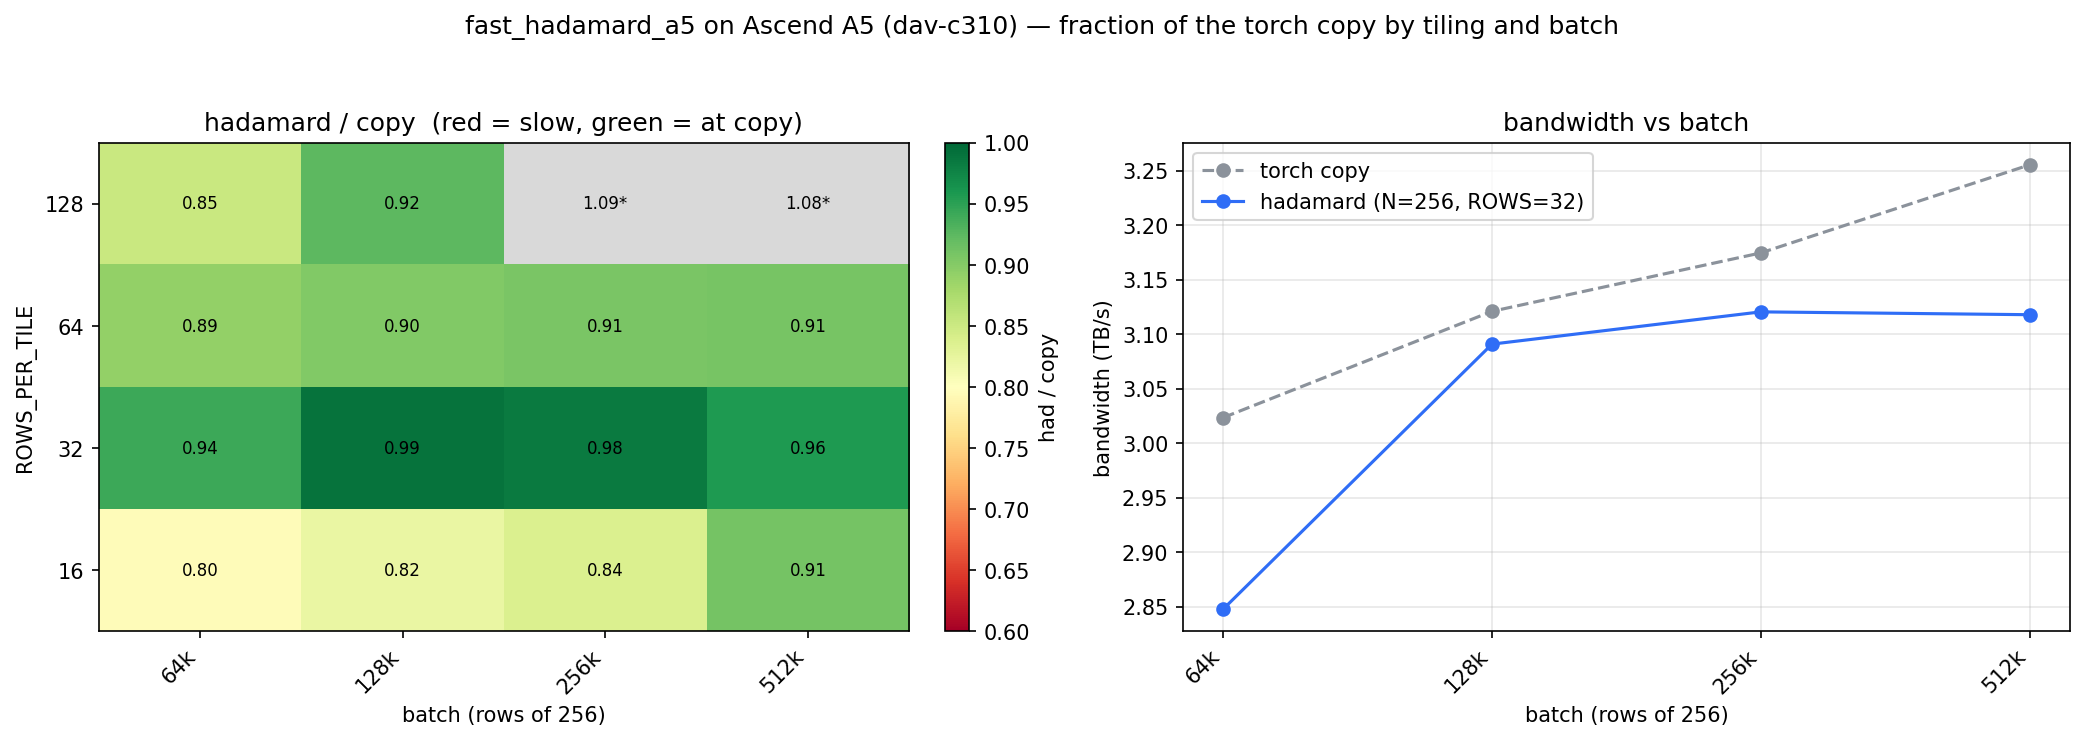
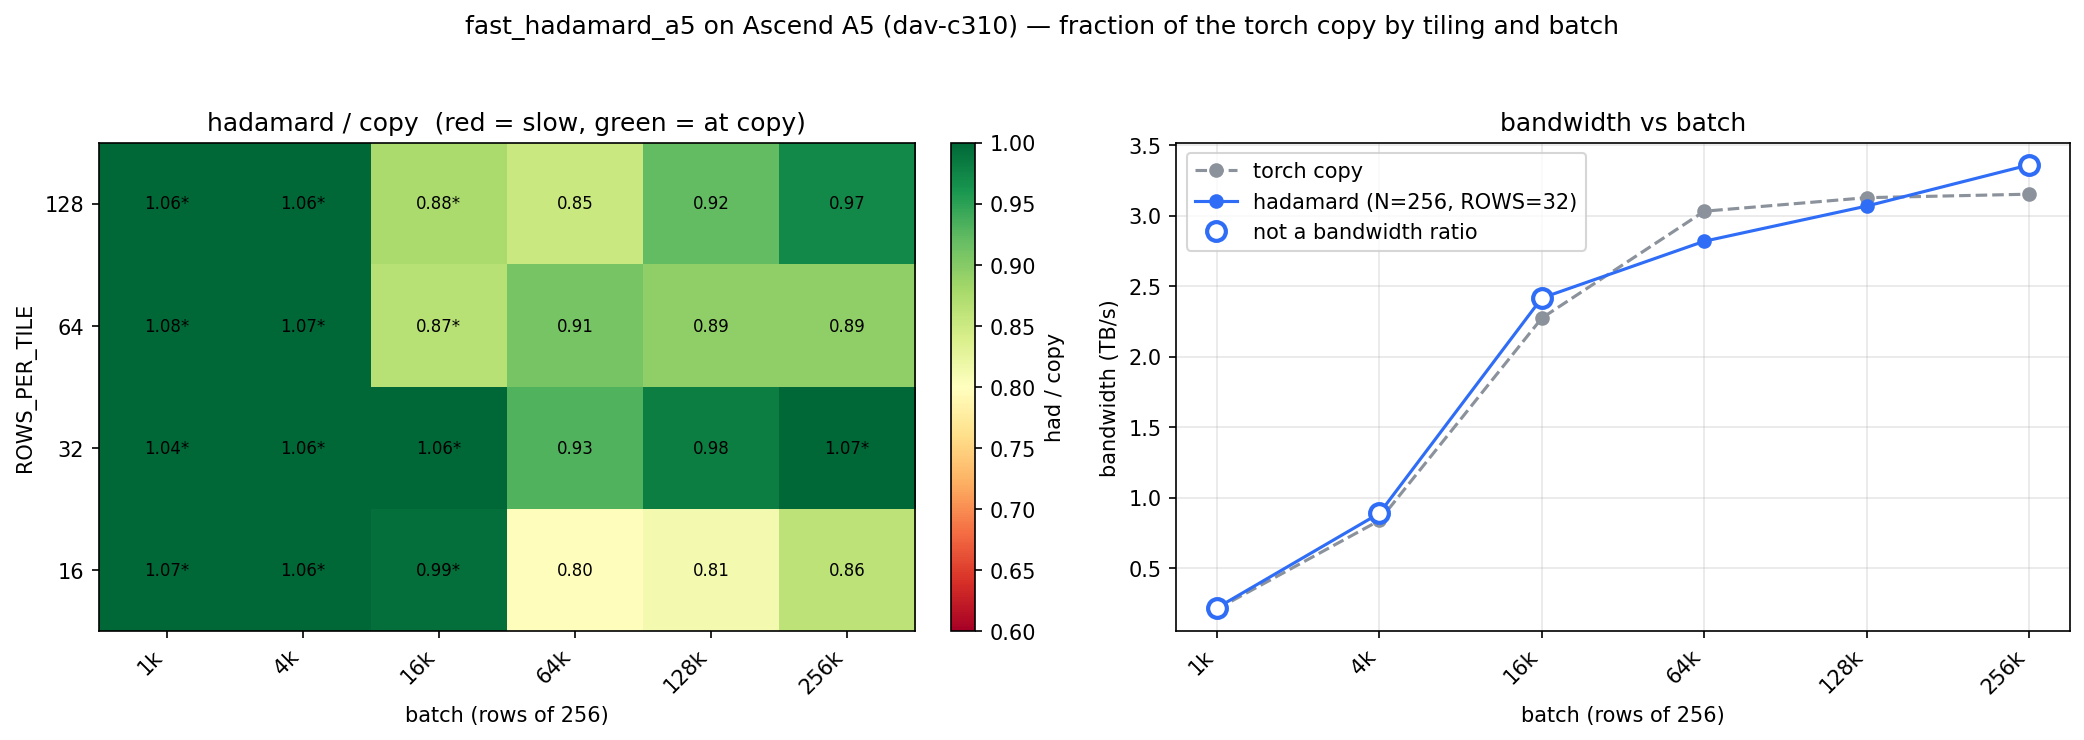
fast_hadamard_a5: restore the DMA-ceiling panel, regrid from batch 1k
nsweep gets its middle panel back: bandwidth alone hides the number that
matters, since the reference is flat at ~3.01 TB/s and the eye cannot read a
ratio off two nearly-parallel lines.

grid now spans batch 1k..256k. The launch-bound cells print their per-launch
microseconds instead of a ratio, and the flagged points on the line panel are
hollow -- at 16k and 256k the transform plots above the reference, which is the
harness rejecting the cell, not the kernel beating a copy.

diff --git a/fast_hadamard_a5/plot_hadamard_grid_a5.py b/fast_hadamard_a5/plot_hadamard_grid_a5.py
@@ -4,9 +4,8 @@
 Reads the CSV emitted by benchmark.py (columns rows,nbuf,batch,pool,reps,micros,
 had_gbs,copy_gbs,ratio,status) and renders two panels into a single PNG:
 
-  * a heatmap of hadamard / copy (red = slow, green = at the torch copy), with
-    the ratio printed in each cell and any cell the harness flagged drawn grey,
-    and
+  * a heatmap of hadamard / copy (red = slow, green = at the torch copy), the
+    ratio printed in every cell and a '*' on any the harness flagged, and
   * a bandwidth-vs-batch line comparing the transform against the torch copy.
 """
 import argparse
@@ -57,11 +56,11 @@ def _parse_args():
 
 
 def _load_grid(csv_path: Path):
-    """Return (rows, batches, ratio[r][b], flagged{(r,b)}, had[r][b], copy[b])."""
+    """Return (rows, batches, ratio[r][b], flagged{(r,b): status}, had, copy)."""
     ratio = defaultdict(dict)
     had = defaultdict(dict)
     copy_floor = {}
-    flagged = set()
+    flagged = {}
     rows_seen, batches_seen = set(), set()
     for record in _read_rows(csv_path):
         rows = int(record["rows"])
@@ -73,22 +72,19 @@ def _load_grid(csv_path: Path):
         copy_floor[batch] = float(record["copy_gbs"])
         status = (record.get("status") or "ok").strip()
         if status != "ok":
-            flagged.add((rows, batch))
+            flagged[(rows, batch)] = status
             print(f"flagged rows={rows} batch={batch}: {status}", file=sys.stderr)
     return sorted(rows_seen), sorted(batches_seen), ratio, flagged, had, copy_floor
 
 
 def _draw_heatmap(axis, rows_sorted, batches_sorted, ratio, flagged):
-    # ROWS_PER_TILE ascending upward, batch ascending rightward. A flagged cell is
-    # drawn grey: a ratio over 1.0 is the out-of-place reference losing its
-    # comparability, not the fastest tiling, and the colour scale would rank it
-    # highest.
+    # ROWS_PER_TILE ascending upward, batch ascending rightward. Every cell carries
+    # its hadamard/copy ratio; a cell the harness flagged is suffixed '*' and listed
+    # on stderr. Below MIN_DEVICE_MICROS a launch is overhead-bound, so a '*' there
+    # means the ratio is two overhead-dominated timings divided, not a bandwidth
+    # figure.
     grid = [
-        [
-            float("nan") if (r, b) in flagged else ratio[r].get(b, float("nan"))
-            for b in batches_sorted
-        ]
-        for r in rows_sorted
+        [ratio[r].get(b, float("nan")) for b in batches_sorted] for r in rows_sorted
     ]
     colours = plt.get_cmap("RdYlGn").with_extremes(bad="#d9d9d9")
     image = axis.imshow(
@@ -115,7 +111,7 @@ def _draw_heatmap(axis, rows_sorted, batches_sorted, ratio, flagged):
     axis.figure.colorbar(image, ax=axis, fraction=0.046, pad=0.04, label="had / copy")
 
 
-def _draw_bandwidth_line(axis, batches_sorted, had, copy_floor):
+def _draw_bandwidth_line(axis, batches_sorted, had, copy_floor, flagged):
     had_row = had.get(LINE_ROWS_PER_TILE, {})
     x = list(range(len(batches_sorted)))
     had_tbs = [had_row.get(b, float("nan")) / 1000.0 for b in batches_sorted]
@@ -129,6 +125,26 @@ def _draw_bandwidth_line(axis, batches_sorted, had, copy_floor):
         color="#2f6df6",
         label=f"hadamard (N=256, ROWS={LINE_ROWS_PER_TILE})",
     )
+    # Hollow the points the harness flagged. Without this the line crossing above
+    # the reference reads as "faster than a copy" when it is really a cell the
+    # harness already rejected.
+    bad = [
+        (i, had_tbs[i])
+        for i, b in enumerate(batches_sorted)
+        if (LINE_ROWS_PER_TILE, b) in flagged
+    ]
+    if bad:
+        axis.plot(
+            [i for i, _ in bad],
+            [v for _, v in bad],
+            "o",
+            markerfacecolor="white",
+            markeredgecolor="#2f6df6",
+            markeredgewidth=2,
+            markersize=9,
+            linestyle="none",
+            label="not a bandwidth ratio",
+        )
     axis.set_xticks(x)
     axis.set_xticklabels(
         [f"{b // 1024}k" if b >= 1024 else str(b) for b in batches_sorted],
@@ -154,7 +170,7 @@ def main():
 
     fig, (heatmap_axis, line_axis) = plt.subplots(1, 2, figsize=(14, 5))
     _draw_heatmap(heatmap_axis, rows_sorted, batches_sorted, ratio, flagged)
-    _draw_bandwidth_line(line_axis, batches_sorted, had, copy_floor)
+    _draw_bandwidth_line(line_axis, batches_sorted, had, copy_floor, flagged)
     fig.suptitle(
         "fast_hadamard_a5 on Ascend A5 (dav-c310) — fraction of the torch copy "
         "by tiling and batch"

diff --git a/fast_hadamard_a5/plot_hadamard_nsweep_a5.py b/fast_hadamard_a5/plot_hadamard_nsweep_a5.py
@@ -2,9 +2,10 @@
 """Plot the fast_hadamard_a5 block-size (N) sweep.
 
 Reads the CSV emitted by ``benchmark.py --nsweep`` (columns n,chunks,rows,batch,
-pool,reps,micros,rel_err,had_gbs,copy_gbs,ratio,status) and renders two panels:
+pool,reps,micros,rel_err,had_gbs,copy_gbs,ratio,status) and renders three panels:
 
-  * achieved bandwidth vs N against the measured torch copy, and
+  * achieved bandwidth vs N against the measured torch copy,
+  * the same thing as a fraction of that copy, which is the number to read, and
   * the vector-op cost per element, which tracks the shape of that curve.
 
 Self-contained (matplotlib only): the shared plot_common helper imports
@@ -128,6 +129,51 @@ def _draw_bandwidth(axis, rows):
             )
 
 
+def _draw_ratio(axis, rows):
+    """Fraction of the reference the kernel achieves, with the ceiling marked."""
+    x = [r["n"] for r in rows]
+    ratios = [r["ratio"] for r in rows]
+    axis.axhline(1.0, linestyle="--", color=FLOOR_COLOR, linewidth=2)
+    axis.annotate(
+        "torch copy",
+        (x[0], 1.0),
+        textcoords="offset points",
+        xytext=(2, 6),
+        fontsize=9,
+        color=FLOOR_COLOR,
+    )
+    axis.plot(
+        x,
+        ratios,
+        "-",
+        marker="o",
+        color=HAD_COLOR,
+        linewidth=2,
+        markersize=8,
+        label="hadamard / torch copy",
+    )
+    axis.set_xscale("log", base=2)
+    axis.set_xticks(x)
+    axis.set_xticklabels([str(v) for v in x])
+    axis.set_xlabel("block size N")
+    axis.set_ylabel("fraction of the reference")
+    axis.set_ylim(0, 1.15)
+    axis.set_title("Fraction of the DMA ceiling")
+    axis.grid(True, alpha=0.25)
+    axis.legend(loc="lower left", frameon=False)
+    for r in rows:
+        if r["n"] in (min(x), 256, max(x)):
+            axis.annotate(
+                f"{r['ratio']:.2f}",
+                (r["n"], r["ratio"]),
+                textcoords="offset points",
+                xytext=(0, -17),
+                ha="center",
+                fontsize=9,
+                color=HAD_COLOR,
+            )
+
+
 def _draw_ops(axis, rows):
     """Why the curve has that shape. Separate panel, not a second y-axis."""
     x = [r["n"] for r in rows]
@@ -156,8 +202,8 @@ def _draw_ops(axis, rows):
         f"cheapest at N={x[lo]}",
         (x[lo], ops[lo]),
         textcoords="offset points",
-        xytext=(12, 2),
-        ha="center",
+        xytext=(10, -4),
+        ha="left",
         fontsize=9,
         color=OPS_COLOR,
     )
@@ -179,8 +225,9 @@ def main():
         print(f"error: no usable rows in {args.csv}", file=sys.stderr)
         return
 
-    fig, (left, right) = plt.subplots(1, 2, figsize=(13, 5))
+    fig, (left, middle, right) = plt.subplots(1, 3, figsize=(19, 5))
     _draw_bandwidth(left, rows)
+    _draw_ratio(middle, rows)
     _draw_ops(right, rows)
     fig.suptitle(
         "fast_hadamard_a5 on Ascend A5 (dav-c310): block size N vs the torch copy"
